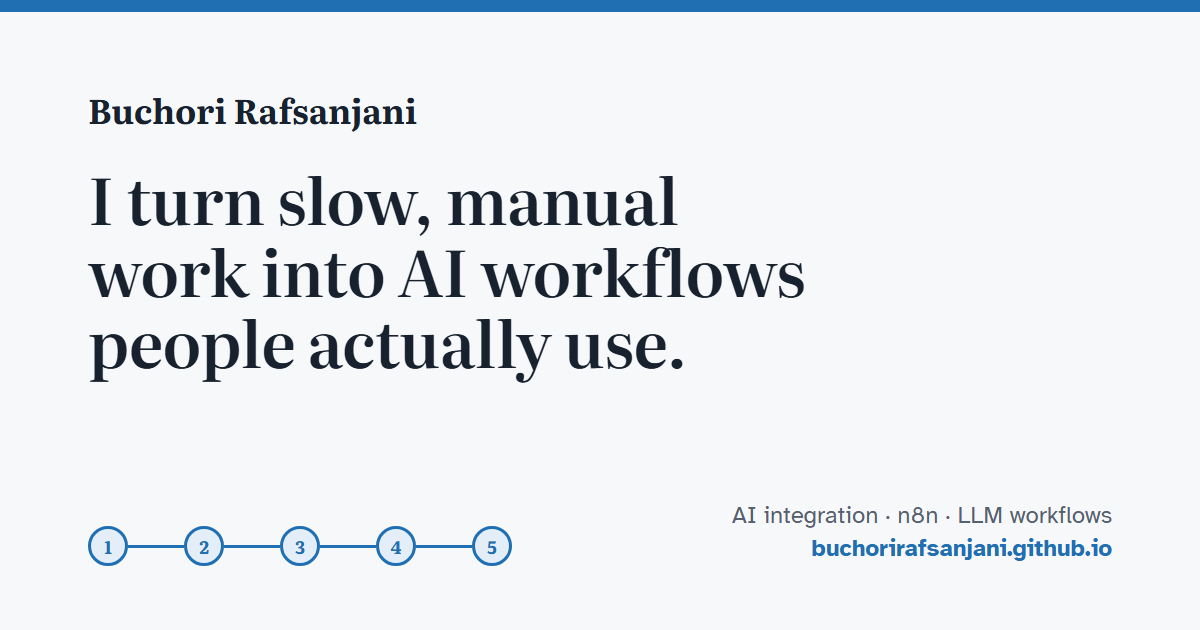
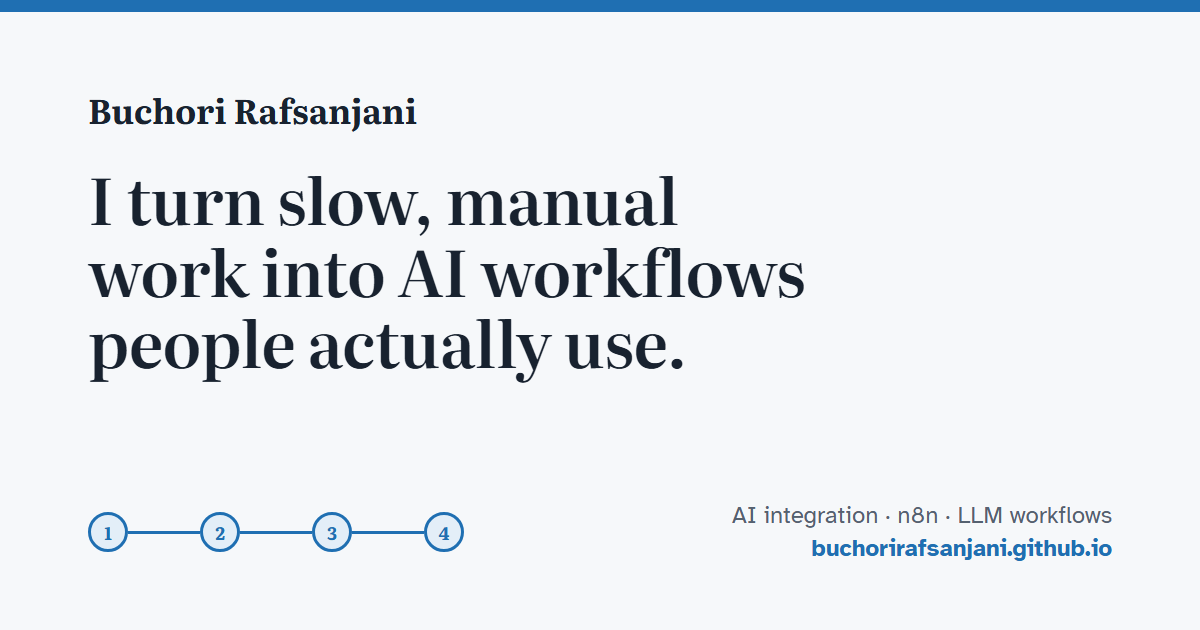
Add English/Indonesian language switch and update design request case
- Add an EN/ID toggle that swaps all copy, the page title, html lang,
  and chart labels; remembers the choice and honors ?lang=
- Rework the design request case: custom Netlify front end with Quill,
  new figures (1,164 requests, 49 people, 169 days), declined scope
- Cut the hero pipeline to four steps and redraw og-image.png to match
- Clarify that the stale-cache re-login bug was found after escalating
  the debugging to a stronger model

Changed region(s): [[0.0617, 0.8143, 0.4317, 0.9048]]

diff --git a/index.html b/index.html
@@ -71,7 +71,7 @@ header.hero{padding:4.5rem 0 3rem}
 /* Pipeline: the one bold element */
 .pipeline{margin:3rem 0 0; padding:1.5rem 0 0; border-top:1px solid var(--rule)}
 .pipeline figcaption{font-size:.95rem; color:var(--muted); margin-bottom:1rem}
-.steps{list-style:none; margin:0; padding:0; display:grid; grid-template-columns:repeat(5,1fr); gap:0; counter-reset:step}
+.steps{list-style:none; margin:0; padding:0; display:grid; grid-template-columns:repeat(4,1fr); gap:0; counter-reset:step}
 .steps li{position:relative; padding:.9rem .75rem .9rem 0; font-size:.95rem; line-height:1.35}
 .steps li::before{
   counter-increment:step; content:counter(step);
@@ -147,30 +147,44 @@ tfoot td{font-weight:700; border-bottom:none}
 
 footer{padding:3rem 0 4rem; border-top:1px solid var(--rule); color:var(--muted)}
 footer p{margin:0 0 .5rem}
+
+/* Language switch */
+.topbar{display:flex; align-items:flex-start; justify-content:space-between; gap:1rem; margin:0 0 1.5rem}
+.topbar .name{margin:0}
+.lang-switch{display:inline-flex; border:1px solid var(--rule); border-radius:999px; padding:2px; background:var(--surface); flex:none}
+.lang-switch button{font:inherit; font-size:.85rem; font-weight:700; letter-spacing:.02em; border:0; background:transparent; color:var(--muted); padding:.3rem .75rem; border-radius:999px; cursor:pointer; min-width:2.75rem; min-height:2rem}
+.lang-switch button[aria-pressed="true"]{background:var(--pencil); color:var(--surface)}
+.lang-switch button:hover{color:var(--ink)}
+.lang-switch button[aria-pressed="true"]:hover{color:var(--surface)}
 </style>
 </head>
 <body>
 <header class="hero">
   <div class="wrap">
-    <p class="name">Buchori Rafsanjani</p>
-    <h1>I turn slow, manual work into AI workflows people actually use.</h1>
-    <p class="lede">8+ years at Dicoding Indonesia, a tech education platform, now as Senior Educational Editor. I spot bottlenecks in content operations, then build the fix myself with LLM APIs, n8n, and AI coding agents.</p>
+    <div class="topbar">
+      <p class="name">Buchori Rafsanjani</p>
+      <div class="lang-switch" role="group" aria-label="Language / Bahasa">
+        <button type="button" data-lang="en" aria-pressed="true" lang="en">EN</button>
+        <button type="button" data-lang="id" aria-pressed="false" lang="id">ID</button>
+      </div>
+    </div>
+    <h1 data-id="Saya mengubah pekerjaan manual yang lambat menjadi workflow AI yang dipakai sehari-hari.">I turn slow, manual work into AI workflows people actually use.</h1>
+    <p class="lede" data-id="Lebih dari 8 tahun di Dicoding Indonesia, platform edukasi teknologi, kini sebagai Senior Educational Editor. Saya mencari hambatan dalam operasional konten, lalu membangun solusinya sendiri dengan LLM API, n8n, dan AI coding agent.">8+ years at Dicoding Indonesia, a tech education platform, now as Senior Educational Editor. I spot bottlenecks in content operations, then build the fix myself with LLM APIs, n8n, and AI coding agents.</p>
     <p class="contact">
       <a href="mailto:buchori.rafsanjani@gmail.com">buchori.rafsanjani@gmail.com</a>
       <a href="https://www.linkedin.com/in/buchori-rafsanjani/" target="_blank" rel="noopener">LinkedIn</a>
-      <a href="Buchori_Rafsanjani_Resume.pdf" download>Resume (PDF)</a>
+      <a href="Buchori_Rafsanjani_Resume.pdf" download data-id="CV (PDF, bahasa Inggris)">Resume (PDF)</a>
     </p>
 
     <figure class="pipeline" aria-labelledby="pipe-cap">
-      <figcaption id="pipe-cap">One request through my design request workflow, from submit to a reviewed card:</figcaption>
+      <figcaption id="pipe-cap" data-id="Perjalanan satu request di aplikasi request desain saya, dari dikirim sampai menjadi card yang sudah direviu:">One request through my design request workflow, from submit to a reviewed card:</figcaption>
       <ol class="steps">
-        <li style="--i:0"><strong>Request form</strong><span>Requester fills a Google Form</span></li>
-        <li style="--i:1"><strong>n8n workflow</strong><span>Logs it to Google Sheets</span></li>
-        <li style="--i:2"><strong>Brief extraction</strong><span>Pulls the brief from Google Docs</span></li>
-        <li style="--i:3"><strong>LLM review</strong><span>Claude checks the brief</span></li>
-        <li style="--i:4"><strong>Basecamp card</strong><span>Created with the review attached</span></li>
+        <li style="--i:0" data-id="&lt;strong&gt;Aplikasi request&lt;/strong&gt;&lt;span&gt;Requester menulis brief dengan format lengkap&lt;/span&gt;"><strong>Request app</strong><span>Requester writes the brief with full formatting</span></li>
+        <li style="--i:1" data-id="&lt;strong&gt;Workflow n8n&lt;/strong&gt;&lt;span&gt;Mencatatnya di Google Sheets&lt;/span&gt;"><strong>n8n workflow</strong><span>Logs it to Google Sheets</span></li>
+        <li style="--i:2" data-id="&lt;strong&gt;Reviu LLM&lt;/strong&gt;&lt;span&gt;AI memeriksa bahasanya&lt;/span&gt;"><strong>LLM review</strong><span>AI checks the language</span></li>
+        <li style="--i:3" data-id="&lt;strong&gt;Card Basecamp&lt;/strong&gt;&lt;span&gt;Terbentuk dengan hasil reviu di kolom komentar&lt;/span&gt;"><strong>Basecamp card</strong><span>Created with the review in comments</span></li>
       </ol>
-      <p class="timer">Submit to reviewed card: <b>5–10 seconds</b></p>
+      <p class="timer" data-id="Dari dikirim sampai card direviu: &lt;b&gt;5–10 detik&lt;/b&gt;">Submit to reviewed card: <b>5–10 seconds</b></p>
     </figure>
   </div>
 </header>
@@ -178,71 +192,73 @@ footer p{margin:0 0 .5rem}
 <main>
   <section id="work">
     <div class="wrap">
-      <h2>Selected work</h2>
-      <p class="section-lede">Internal tools I built at Dicoding. Each started as a problem I noticed, not an assignment.</p>
+      <h2 data-id="Karya pilihan">Selected work</h2>
+      <p class="section-lede" data-id="Tool internal yang saya bangun di Dicoding. Semuanya berawal dari masalah yang saya temukan sendiri, bukan dari penugasan.">Internal tools I built at Dicoding. Each started as a problem I noticed, not an assignment.</p>
 
       <article class="case">
-        <h3>Design request workflow</h3>
-        <p class="result">947 requests from 45 people across 8 teams in its first 135 days.</p>
+        <h3 data-id="Aplikasi request desain">Design request app</h3>
+        <p class="result" data-id="1.164 request dari 49 orang di 8 tim dalam 169 hari pertama.">1,164 requests from 49 people across 8 teams in its first 169 days.</p>
         <dl>
-          <dt>Problem</dt>
-          <dd>Design requests arrived as free-form Basecamp posts, each written differently. Requesters then had to mention an editor to get their brief reviewed.</dd>
-          <dt>What I built</dt>
-          <dd>A Google Form feeds an n8n workflow that logs each request, extracts the brief, has Claude review it, and creates a Basecamp card with the review attached.</dd>
-          <dt>Fixed along the way</dt>
-          <dd>Moved Basecamp access to per-user OAuth tokens and fixed API pagination issues.</dd>
-          <dt>Stack</dt>
-          <dd>n8n, Google Forms, Google Sheets, Google Docs, Claude, Basecamp API</dd>
+          <dt data-id="Masalah">Problem</dt>
+          <dd data-id="Menulis request desain di Basecamp secara manual memakan waktu, lalu requester harus me-mention editor dan menunggu reviu bahasa. Tim desainer juga menerima request dengan format yang berbeda-beda.">Writing design requests in Basecamp by hand was slow, and requesters then had to mention an editor and wait for a language review. Designers received requests in inconsistent formats.</dd>
+          <dt data-id="Yang saya bangun">What I built</dt>
+          <dd data-id="Saya mulai dengan Google Forms, lalu menggantinya dengan front end buatan sendiri di Netlify yang memakai editor Quill, karena pengujian menunjukkan pengguna butuh format bold, italic, dan list. Workflow n8n mencatat setiap request, meminta LLM mereviu bahasanya, lalu membuat card Basecamp dengan hasil reviu di kolom komentar.">I started with Google Forms, then replaced it with my own front end on Netlify with a Quill rich-text editor, because testing showed users needed bold, italics, and lists. An n8n workflow logs each request, has an LLM review the language, and creates a Basecamp card with the review in the comments.</dd>
+          <dt data-id="Yang saya tolak">What I declined</dt>
+          <dd data-id="Penambahan request engineering ke form ini, karena form ini dibuat untuk tim desain. Sebagai gantinya, saya mengusulkan form terpisah.">Adding engineering requests to the form, since it serves the design team. I suggested a separate form instead.</dd>
+          <dt data-id="Perbaikan di tengah jalan">Fixed along the way</dt>
+          <dd data-id="Memindahkan akses Basecamp ke token OAuth per pengguna, memperbaiki masalah paginasi API, dan memperbaiki gagal login ulang akibat cache yang belum terhapus, yang ditemukan setelah pemeriksaannya saya alihkan ke model yang lebih kuat.">Moved Basecamp access to per-user OAuth tokens, fixed API pagination issues, and fixed a re-login failure caused by a stale cache, which I found after escalating the debugging to a stronger model.</dd>
+          <dt data-id="Teknologi">Stack</dt>
+          <dd>Netlify, Quill, n8n, Google Sheets, LLM API, Basecamp API (OAuth)</dd>
         </dl>
       </article>
 
       <article class="case">
-        <h3>LLM proofreading and QA</h3>
-        <p class="result">Review time per module cut from 3–5 days to under 2 hours, across 100+ modules.</p>
-        <div class="bars" role="img" aria-label="Review time per module: 3 to 5 days before, under 2 hours after.">
-          <div class="bar-row"><span>Before</span><div class="track"><div class="fill range" style="width:100%"></div><div class="fill" style="width:60%"></div></div><span class="val">3–5 days</span></div>
-          <div class="bar-row"><span>After</span><div class="track"><div class="fill after" style="width:1.7%"></div></div><span class="val">&lt; 2 hours</span></div>
-          <small>Bars drawn to scale. The light part of the top bar shows the range from 3 to 5 days.</small>
+        <h3 data-id="Proofreading dan QA berbasis LLM">LLM proofreading and QA</h3>
+        <p class="result" data-id="Waktu reviu per modul turun dari 3–5 hari menjadi di bawah 2 jam, untuk 100+ modul.">Review time per module cut from 3–5 days to under 2 hours, across 100+ modules.</p>
+        <div class="bars" role="img" aria-label="Review time per module: 3 to 5 days before, under 2 hours after." data-id-label="Waktu reviu per modul: 3 sampai 5 hari sebelumnya, di bawah 2 jam sesudahnya.">
+          <div class="bar-row"><span data-id="Sebelum">Before</span><div class="track"><div class="fill range" style="width:100%"></div><div class="fill" style="width:60%"></div></div><span class="val" data-id="3–5 hari">3–5 days</span></div>
+          <div class="bar-row"><span data-id="Sesudah">After</span><div class="track"><div class="fill after" style="width:1.7%"></div></div><span class="val" data-id="&amp;lt; 2 jam">&lt; 2 hours</span></div>
+          <small data-id="Batang digambar sesuai skala. Bagian terang pada batang atas menunjukkan rentang 3 sampai 5 hari.">Bars drawn to scale. The light part of the top bar shows the range from 3 to 5 days.</small>
         </div>
         <dl>
-          <dt>Problem</dt>
-          <dd>Checking technical learning content against Indonesian language standards (KBBI and EYD) was slow, manual work.</dd>
-          <dt>What I built</dt>
-          <dd>LLM-based proofreading and QA tools aligned with those standards, used in the editorial review of each module.</dd>
-          <dt>Stack</dt>
-          <dd>LLM API, language standards, editorial QA workflow</dd>
+          <dt data-id="Masalah">Problem</dt>
+          <dd data-id="Memeriksa konten pembelajaran teknis berdasarkan standar bahasa Indonesia (KBBI dan EYD) adalah pekerjaan manual yang lambat.">Checking technical learning content against Indonesian language standards (KBBI and EYD) was slow, manual work.</dd>
+          <dt data-id="Yang saya bangun">What I built</dt>
+          <dd data-id="Tool proofreading dan QA berbasis LLM yang mengikuti standar tersebut dan dipakai dalam reviu editorial setiap modul.">LLM-based proofreading and QA tools aligned with those standards, used in the editorial review of each module.</dd>
+          <dt data-id="Teknologi">Stack</dt>
+          <dd data-id="LLM API, standar bahasa, workflow QA editorial">LLM API, language standards, editorial QA workflow</dd>
         </dl>
       </article>
 
       <article class="case">
-        <h3>Company policy chatbot</h3>
-        <p class="result">Used by 90+ employees to look up company policies, culture, and procedures.</p>
+        <h3 data-id="Chatbot kebijakan perusahaan">Company policy chatbot</h3>
+        <p class="result" data-id="Dipakai 90+ karyawan untuk mencari informasi kebijakan, budaya, dan prosedur perusahaan.">Used by 90+ employees to look up company policies, culture, and procedures.</p>
         <dl>
-          <dt>Problem</dt>
-          <dd>Employees needed quick, reliable answers about company rules spread across policy documents.</dd>
-          <dt>What I built</dt>
-          <dd>A RAG chatbot that answers from the official policy documents, with an n8n workflow that collects the policy data.</dd>
-          <dt>Design choice</dt>
-          <dd>When a question isn’t covered by the documents, the chatbot says so and refers the employee to HR instead of guessing.</dd>
-          <dt>Stack</dt>
+          <dt data-id="Masalah">Problem</dt>
+          <dd data-id="Karyawan butuh jawaban yang cepat dan akurat tentang aturan perusahaan yang tersebar di banyak dokumen kebijakan.">Employees needed quick, reliable answers about company rules spread across policy documents.</dd>
+          <dt data-id="Yang saya bangun">What I built</dt>
+          <dd data-id="Chatbot RAG yang menjawab berdasarkan dokumen kebijakan resmi, dengan workflow n8n untuk mengumpulkan data kebijakannya.">A RAG chatbot that answers from the official policy documents, with an n8n workflow that collects the policy data.</dd>
+          <dt data-id="Keputusan desain">Design choice</dt>
+          <dd data-id="Kalau pertanyaannya tidak tercakup dalam dokumen, chatbot menyampaikan hal itu dan mengarahkan karyawan ke HR, alih-alih menebak jawaban.">When a question isn’t covered by the documents, the chatbot says so and refers the employee to HR instead of guessing.</dd>
+          <dt data-id="Teknologi">Stack</dt>
           <dd>n8n, RAG, LLM API</dd>
         </dl>
       </article>
 
       <article class="case">
-        <h3>Automated course publishing</h3>
-        <p class="result">Uploading course material to the CMS went from 3–5 days to 3 hours.</p>
-        <div class="bars" role="img" aria-label="Course publishing time: 3 to 5 days before, 3 hours after.">
-          <div class="bar-row"><span>Before</span><div class="track"><div class="fill range" style="width:100%"></div><div class="fill" style="width:60%"></div></div><span class="val">3–5 days</span></div>
-          <div class="bar-row"><span>After</span><div class="track"><div class="fill after" style="width:2.5%"></div></div><span class="val">3 hours</span></div>
-          <small>Bars drawn to scale. The light part of the top bar shows the range from 3 to 5 days.</small>
+        <h3 data-id="Publikasi kelas otomatis">Automated course publishing</h3>
+        <p class="result" data-id="Waktu mengunggah materi kelas ke CMS turun dari 3–5 hari menjadi 3 jam.">Uploading course material to the CMS went from 3–5 days to 3 hours.</p>
+        <div class="bars" role="img" aria-label="Course publishing time: 3 to 5 days before, 3 hours after." data-id-label="Waktu publikasi kelas: 3 sampai 5 hari sebelumnya, 3 jam sesudahnya.">
+          <div class="bar-row"><span data-id="Sebelum">Before</span><div class="track"><div class="fill range" style="width:100%"></div><div class="fill" style="width:60%"></div></div><span class="val" data-id="3–5 hari">3–5 days</span></div>
+          <div class="bar-row"><span data-id="Sesudah">After</span><div class="track"><div class="fill after" style="width:2.5%"></div></div><span class="val" data-id="3 jam">3 hours</span></div>
+          <small data-id="Batang digambar sesuai skala. Bagian terang pada batang atas menunjukkan rentang 3 sampai 5 hari.">Bars drawn to scale. The light part of the top bar shows the range from 3 to 5 days.</small>
         </div>
         <dl>
-          <dt>Problem</dt>
-          <dd>Course material was uploaded to the CMS by hand, which took 3–5 days per course.</dd>
-          <dt>What I built</dt>
-          <dd>An n8n workflow that uploads course material to Dicoding’s CMS through its API, one of 6+ workflows I’ve built.</dd>
-          <dt>Stack</dt>
+          <dt data-id="Masalah">Problem</dt>
+          <dd data-id="Materi kelas diunggah ke CMS secara manual, dan prosesnya memakan waktu 3–5 hari per kelas.">Course material was uploaded to the CMS by hand, which took 3–5 days per course.</dd>
+          <dt data-id="Yang saya bangun">What I built</dt>
+          <dd data-id="Workflow n8n yang mengunggah materi kelas ke CMS Dicoding melalui API-nya. Ini salah satu dari 6+ workflow yang sudah saya bangun.">An n8n workflow that uploads course material to Dicoding’s CMS through its API, one of 6+ workflows I’ve built.</dd>
+          <dt data-id="Teknologi">Stack</dt>
           <dd>n8n, Dicoding CMS API</dd>
         </dl>
       </article>
@@ -251,47 +267,47 @@ footer p{margin:0 0 .5rem}
 
   <section id="docs">
     <div class="wrap">
-      <h2>Documentation</h2>
-      <p>Alongside the tools, I write the documentation that keeps them usable: system documentation for the automation workflows I build, user guides for the colleagues who use them, and SOPs for internal editorial and operational processes.</p>
-      <p>As an editor, I hold documentation to the same standard as published content: accurate, consistent, and checked against its source. I work in Notion, Figma, Google Workspace, and GitHub.</p>
+      <h2 data-id="Dokumentasi">Documentation</h2>
+      <p data-id="Selain membangun tool, saya juga menulis dokumentasinya: dokumentasi sistem untuk workflow otomasi yang saya bangun, panduan pengguna untuk rekan kerja yang memakainya, serta SOP untuk proses editorial dan operasional internal.">Alongside the tools, I write the documentation that keeps them usable: system documentation for the automation workflows I build, user guides for the colleagues who use them, and SOPs for internal editorial and operational processes.</p>
+      <p data-id="Sebagai editor, saya memperlakukan dokumentasi seperti konten yang akan terbit: akurat, konsisten, dan dicek dengan sumbernya. Saya bekerja dengan Notion, Figma, Google Workspace, dan GitHub.">As an editor, I hold documentation to the same standard as published content: accurate, consistent, and checked against its source. I work in Notion, Figma, Google Workspace, and GitHub.</p>
     </div>
   </section>
 
   <section id="how">
     <div class="wrap">
-      <h2>How I build</h2>
-      <p>I build with AI coding agents. I use Claude Code to write and change code, keep the work in Git, and test what the agent produces before anyone relies on it.</p>
-      <p>Eight years of writing and editing technical content taught me to check every claim against a source. I treat AI output the same way: it isn’t correct until I’ve verified it.</p>
-      <p>I run each tool as a small project: find the problem, gather requirements from the people affected, build, roll out, and keep improving it. I hold Google’s Foundations of Project Management certification.</p>
+      <h2 data-id="Cara saya membangun">How I build</h2>
+      <p data-id="Saya membangun dengan AI coding agent. Saya memakai Claude Code untuk menulis dan mengubah kode, menyimpan pekerjaan di Git, dan menguji hasil kerja agent sebelum dipakai orang lain.">I build with AI coding agents. I use Claude Code to write and change code, keep the work in Git, and test what the agent produces before anyone relies on it.</p>
+      <p data-id="Delapan tahun menulis dan menyunting konten teknis membuat saya terbiasa mengecek setiap klaim dengan sumbernya. Output AI saya perlakukan sama: belum dianggap benar sebelum saya verifikasi.">Eight years of writing and editing technical content taught me to check every claim against a source. I treat AI output the same way: it isn’t correct until I’ve verified it.</p>
+      <p data-id="Setiap tool saya jalankan sebagai proyek kecil: menemukan masalah, mengumpulkan kebutuhan dari orang yang terdampak, membangun, merilis, lalu terus memperbaikinya. Saya memegang sertifikasi Foundations of Project Management dari Google.">I run each tool as a small project: find the problem, gather requirements from the people affected, build, roll out, and keep improving it. I hold Google’s Foundations of Project Management certification.</p>
     </div>
   </section>
 
   <section id="learning">
     <div class="wrap">
-      <h2>Learning design</h2>
-      <p class="section-lede">Before building tools, I designed and wrote online courses for Dicoding as a curriculum developer (2018–2021).</p>
+      <h2 data-id="Desain pembelajaran">Learning design</h2>
+      <p class="section-lede" data-id="Sebelum membangun tool, saya merancang dan menulis kelas online untuk Dicoding sebagai curriculum developer (2018–2021).">Before building tools, I designed and wrote online courses for Dicoding as a curriculum developer (2018–2021).</p>
       <div class="table-wrap">
         <table>
-          <thead><tr><th>Course</th><th class="num">Enrollments</th><th class="num">Rating</th></tr></thead>
+          <thead><tr><th data-id="Kelas">Course</th><th class="num" data-id="Pendaftar">Enrollments</th><th class="num">Rating</th></tr></thead>
           <tbody>
-            <tr><td lang="id">Belajar Visualisasi Data</td><td class="num">135,974</td><td class="num">4.86</td></tr>
-            <tr><td lang="id">Memulai Dasar Pemrograman untuk Menjadi Pengembang Software</td><td class="num">60,926</td><td class="num">4.88</td></tr>
-            <tr><td lang="id">Pengenalan ke Logika Pemrograman</td><td class="num">53,135</td><td class="num">4.91</td></tr>
-            <tr><td lang="id">Belajar Membuat Augmented Reality dengan Lens Studio</td><td class="num">15,371</td><td class="num">4.88</td></tr>
-            <tr><td lang="id">Belajar Membuat Game untuk Pemula</td><td class="num">8,472</td><td class="num">4.91</td></tr>
-            <tr><td lang="id">Belajar Membuat Game dengan Construct 2</td><td class="num">7,869</td><td class="num">5.00</td></tr>
-            <tr><td lang="id">Belajar Membangun LINE Front-end Framework (LIFF)</td><td class="num">5,972</td><td class="num">4.93</td></tr>
-            <tr><td lang="id">Menjadi Game Developer Expert</td><td class="num">3,086</td><td class="num">4.83</td></tr>
+            <tr><td lang="id">Belajar Visualisasi Data</td><td class="num" data-id="135.974">135,974</td><td class="num" data-id="4,86">4.86</td></tr>
+            <tr><td lang="id">Memulai Dasar Pemrograman untuk Menjadi Pengembang Software</td><td class="num" data-id="60.926">60,926</td><td class="num" data-id="4,88">4.88</td></tr>
+            <tr><td lang="id">Pengenalan ke Logika Pemrograman</td><td class="num" data-id="53.135">53,135</td><td class="num" data-id="4,91">4.91</td></tr>
+            <tr><td lang="id">Belajar Membuat Augmented Reality dengan Lens Studio</td><td class="num" data-id="15.371">15,371</td><td class="num" data-id="4,88">4.88</td></tr>
+            <tr><td lang="id">Belajar Membuat Game untuk Pemula</td><td class="num" data-id="8.472">8,472</td><td class="num" data-id="4,91">4.91</td></tr>
+            <tr><td lang="id">Belajar Membuat Game dengan Construct 2</td><td class="num" data-id="7.869">7,869</td><td class="num" data-id="5,00">5.00</td></tr>
+            <tr><td lang="id">Belajar Membangun LINE Front-end Framework (LIFF)</td><td class="num" data-id="5.972">5,972</td><td class="num" data-id="4,93">4.93</td></tr>
+            <tr><td lang="id">Menjadi Game Developer Expert</td><td class="num" data-id="3.086">3,086</td><td class="num" data-id="4,83">4.83</td></tr>
           </tbody>
-          <tfoot><tr><td>8 courses</td><td class="num">290,805</td><td class="num">4.90 avg</td></tr></tfoot>
+          <tfoot><tr><td data-id="8 kelas">8 courses</td><td class="num" data-id="290.805">290,805</td><td class="num" data-id="rata-rata 4,90">4.90 avg</td></tr></tfoot>
         </table>
       </div>
 
       <div class="extras">
-        <h3>Beyond the courses</h3>
+        <h3 data-id="Di luar kelas">Beyond the courses</h3>
         <ul>
-          <li>Wrote submission review guides for my courses so Dicoding reviewers could assess learners’ projects consistently.</li>
-          <li>Ran game development workshops and mentored participants in game development and project management for a Dicoding campaign.</li>
+          <li data-id="Menulis panduan reviu submission untuk kelas-kelas saya agar reviewer Dicoding bisa menilai proyek peserta secara konsisten.">Wrote submission review guides for my courses so Dicoding reviewers could assess learners’ projects consistently.</li>
+          <li data-id="Mengadakan workshop pengembangan game serta mementori peserta di bidang pengembangan game dan manajemen proyek untuk salah satu campaign Dicoding.">Ran game development workshops and mentored participants in game development and project management for a Dicoding campaign.</li>
         </ul>
       </div>
 
@@ -300,18 +316,42 @@ footer p{margin:0 0 .5rem}
 
   <section id="studio">
     <div class="wrap">
-      <h2>Where I started</h2>
-      <p>In 2016, while still in college, I co-founded Always Play Studio with two fellow students. I led our 3-person team and managed 4 client projects building educational games for young children on topics like letters and animals, from pitch to delivery.</p>
-      <p>I studied Game Technology at Politeknik Elektronika Negeri Surabaya (S.Tr.Kom., 2019).</p>
+      <h2 data-id="Awal perjalanan">Where I started</h2>
+      <p data-id="Pada 2016, saat masih kuliah, saya mendirikan Always Play Studio bersama dua teman kampus. Saya memimpin tim 3 orang dan menangani 4 proyek klien berupa game edukasi untuk anak-anak dengan topik seperti huruf dan hewan, mulai dari pitching sampai delivery.">In 2016, while still in college, I co-founded Always Play Studio with two fellow students. I led our 3-person team and managed 4 client projects building educational games for young children on topics like letters and animals, from pitch to delivery.</p>
+      <p data-id="Saya menempuh pendidikan Teknologi Game di Politeknik Elektronika Negeri Surabaya (S.Tr.Kom., 2019).">I studied Game Technology at Politeknik Elektronika Negeri Surabaya (S.Tr.Kom., 2019).</p>
     </div>
   </section>
 </main>
 
 <footer>
   <div class="wrap">
-    <p>Get in touch: <a href="mailto:buchori.rafsanjani@gmail.com">buchori.rafsanjani@gmail.com</a> | <a href="https://www.linkedin.com/in/buchori-rafsanjani/" target="_blank" rel="noopener">LinkedIn</a></p>
-    <p>Tools shown here are internal to Dicoding. This page describes them without sharing code or internal data.</p>
+    <p data-id="Hubungi saya: &lt;a href=&quot;mailto:buchori.rafsanjani@gmail.com&quot;&gt;buchori.rafsanjani@gmail.com&lt;/a&gt; | &lt;a href=&quot;https://www.linkedin.com/in/buchori-rafsanjani/&quot; target=&quot;_blank&quot; rel=&quot;noopener&quot;&gt;LinkedIn&lt;/a&gt;">Get in touch: <a href="mailto:buchori.rafsanjani@gmail.com">buchori.rafsanjani@gmail.com</a> | <a href="https://www.linkedin.com/in/buchori-rafsanjani/" target="_blank" rel="noopener">LinkedIn</a></p>
+    <p data-id="Tool yang ditampilkan di sini adalah tool internal Dicoding. Halaman ini menjelaskannya tanpa membagikan kode atau data internal.">Tools shown here are internal to Dicoding. This page describes them without sharing code or internal data.</p>
   </div>
 </footer>
+<script>
+(function(){
+  var TITLE={en:document.title, id:"Buchori Rafsanjani \u2013 Workflow AI untuk pekerjaan nyata"};
+  var els=[].slice.call(document.querySelectorAll("[data-id]"));
+  els.forEach(function(el){ el.setAttribute("data-en", el.innerHTML); });
+  var labs=[].slice.call(document.querySelectorAll("[data-id-label]"));
+  labs.forEach(function(el){ el.setAttribute("data-en-label", el.getAttribute("aria-label")); });
+  var btns=[].slice.call(document.querySelectorAll(".lang-switch button"));
+  function apply(lang){
+    els.forEach(function(el){ el.innerHTML = el.getAttribute(lang==="id" ? "data-id" : "data-en"); });
+    labs.forEach(function(el){ el.setAttribute("aria-label", el.getAttribute(lang==="id" ? "data-id-label" : "data-en-label")); });
+    document.documentElement.lang = lang;
+    document.title = TITLE[lang];
+    btns.forEach(function(b){ b.setAttribute("aria-pressed", String(b.getAttribute("data-lang")===lang)); });
+  }
+  function save(lang){ try{ localStorage.setItem("lang", lang); }catch(e){} }
+  var lang=null;
+  try{ var q=new URLSearchParams(location.search).get("lang"); if(q==="id"||q==="en") lang=q; }catch(e){}
+  if(!lang){ try{ lang=localStorage.getItem("lang"); }catch(e){} }
+  if(lang!=="id" && lang!=="en"){ lang=(navigator.language||"").toLowerCase().indexOf("id")===0 ? "id" : "en"; }
+  apply(lang);
+  btns.forEach(function(b){ b.addEventListener("click", function(){ var l=b.getAttribute("data-lang"); apply(l); save(l); }); });
+})();
+</script>
 </body>
 </html>
